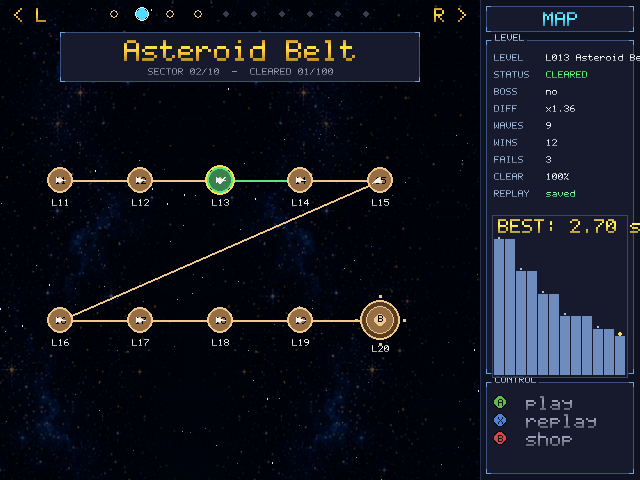
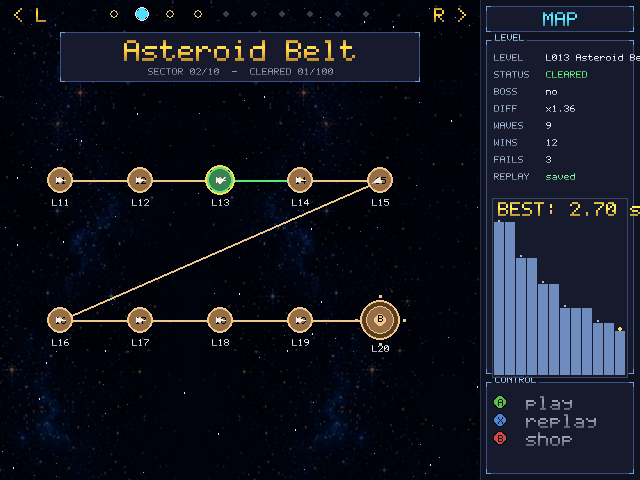
v0.9.326: drop CLEAR % row from the map LEVEL panel
Now that stolen-time is the score and partial clears say "N enemies
escaped" on the banner, the static max_clear % readout in the map
LEVEL panel is redundant — every cleared level is 100% by the new
mechanic. Chart container moves up by one row to reclaim the space.

diff --git a/pewpew.py b/pewpew.py
@@ -137,7 +137,7 @@ def _web_is_touch():
 # features, major for big-rewrites. Skipping the bump means the next user
 # sees the same number and can't tell if they're on the latest build.
 # ──────────────────────────────────────────────────────────────────────────
-VERSION = "0.9.325"
+VERSION = "0.9.326"
 
 # ──────────────────────────────────────────────────────────────────────────
 # HUD layout suppression
@@ -11286,7 +11286,6 @@ def _build_map_panel_spec():
         ("WAVES", "{detail_waves}", _VW),
         ("WINS", "{detail_wins}", _VW),
         ("FAILS", "{detail_fails}", _VW),
-        ("CLEAR", "{detail_clear}", _VW),
         ("REPLAY", "{detail_replay}", "{detail_replay_color}"),
     ]
     det_children = []
@@ -11612,7 +11611,6 @@ def _side_strip_vars(app, shop_screen=None, map_screen=None):
             out["detail_waves"] = str(len(getattr(level, "timeline", []) or []))
             out["detail_wins"] = str(wins)
             out["detail_fails"] = str(fails)
-            out["detail_clear"] = "-" if wins + fails == 0 else f"{int(mc * 100)}%"
             if cur in save.completed:
                 out["detail_status"], out["detail_status_color"] = "CLEARED", [90, 230, 120]
             elif cur in save.unlocked:
@@ -18721,11 +18719,12 @@ class MapScreen:
         y_max = max(current_best * 1.05,
                     min(observed_max, current_best * 4.0))
 
-        # Container rect — sits inside the LEVEL panel, below its 9
+        # Container rect — sits inside the LEVEL panel, below its 8
         # metadata rows. Numbers match _build_map_panel_spec(): DET_Y=40,
-        # row 0 at y=14, 9 rows × 17 px = row text ends ~ y=167.
+        # row 0 at y=14, 8 rows × 17 px → first slot past the last row
+        # sits at y=14 + 8*17 = 150 (panel-local), plus 8 px breathing.
         chart_x = HUD_X + 12
-        chart_top = 40 + 167 + 8
+        chart_top = 40 + 150 + 8
         chart_w = HUD_W - 24
         chart_h = SCREEN_H - 98 - 4 - chart_top
         if chart_w <= 4 or chart_h <= 16:
